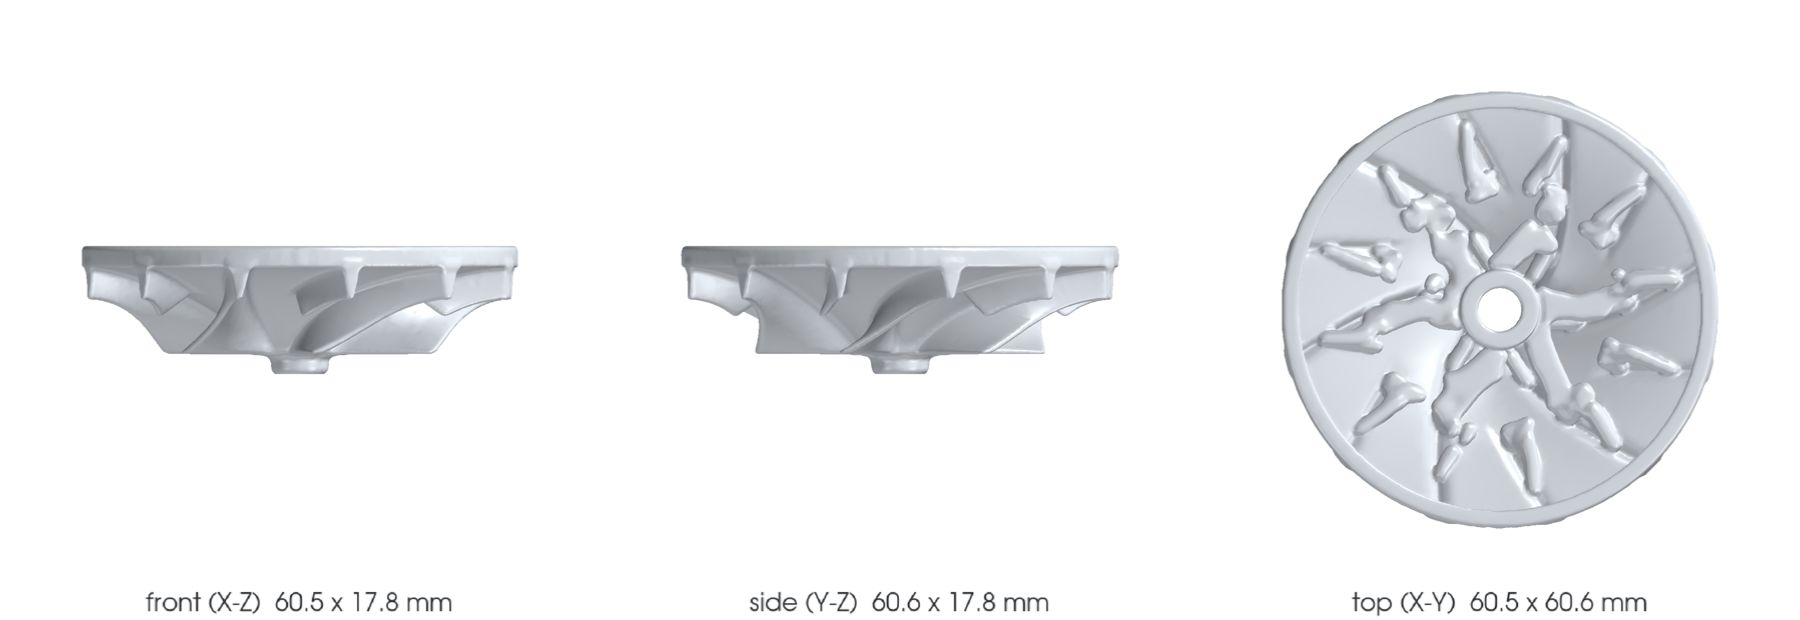
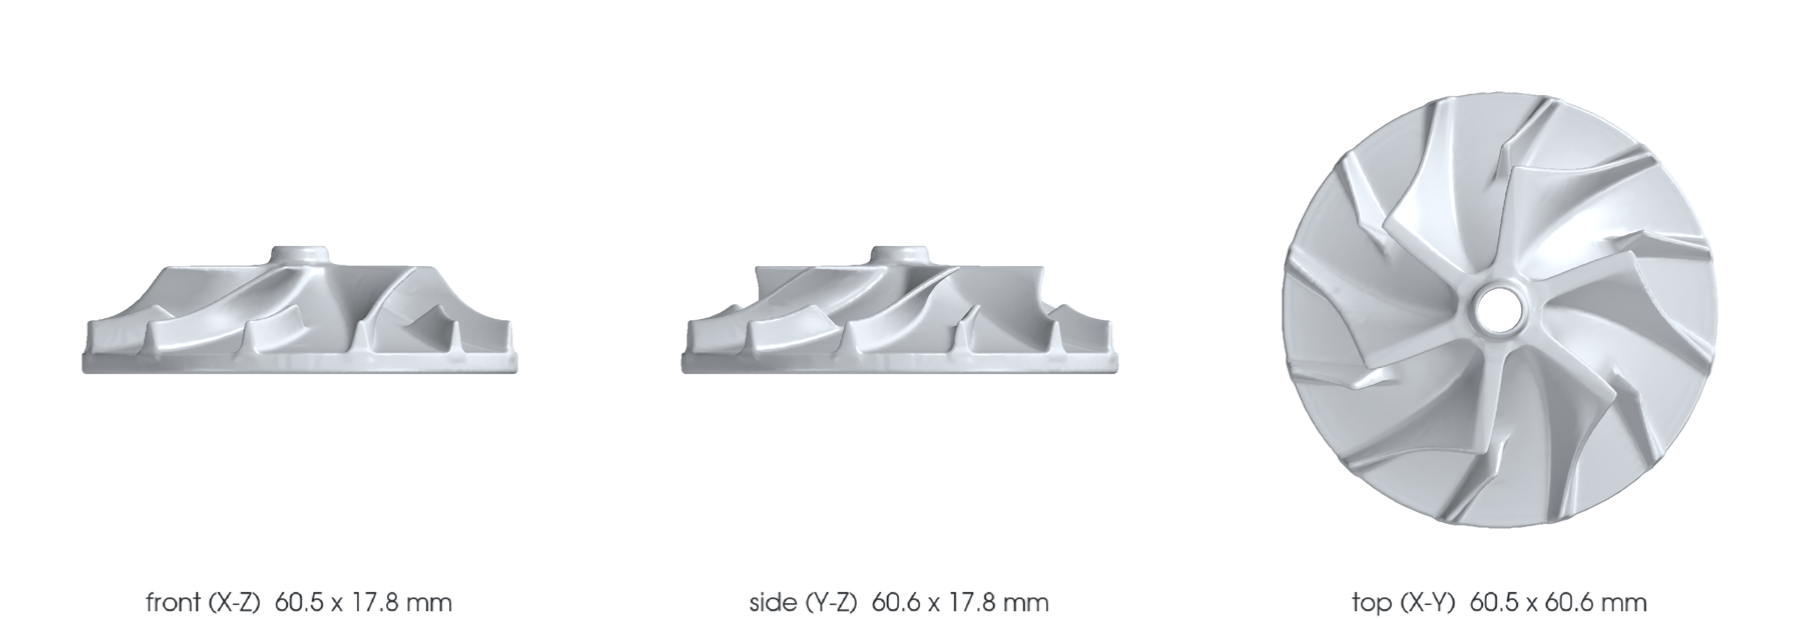
Show the blade face of back-face-up K16 compressor rotors

Changed region(s): [[0.7156, 0.1532, 0.9644, 0.8581], [0.0311, 0.3984, 0.3111, 0.6129], [0.3733, 0.3984, 0.6222, 0.6129]]

diff --git a/scripts/render_part_previews.py b/scripts/render_part_previews.py
@@ -174,6 +174,20 @@ def save_manifest(record: dict, info: dict) -> dict:
     return info
 
 
+def display_rotation_x_deg(part_id: str, files: list[Path]) -> int:
+    """Show the blade face of the two rotors archived back-face-up.
+
+    Their documented bionic frame is a 180-degree X rotation, not a mirror.
+    The source meshes and blade handedness are preserved.
+    """
+    back_face_up = {
+        "993-ENG-K16-COMPRESSOR-WHEEL-ALSI10MG-F0-0001",
+        "993-ENG-K16-COMPRESSOR-WHEEL-AL2139-F1-0001",
+    }
+    return 180 if (part_id in back_face_up and files
+                   and all(f.name.endswith("-picogk.stl") for f in files)) else 0
+
+
 def render(record: dict) -> dict:
     part_id = record["part_id"]
     files = sources(part_id)
@@ -181,7 +195,10 @@ def render(record: dict) -> dict:
         return status_card(record, files)
     import pyvista as pv
     pv.OFF_SCREEN = True
+    rotation_x_deg = display_rotation_x_deg(part_id, files)
     meshes = [mesh_of(f) for f in files]
+    if rotation_x_deg:
+        meshes = [m.rotate_x(rotation_x_deg, inplace=False) for m in meshes]
     smooth = (record.get("geometry", {}).get("master_format") == "PicoGK"
               or all(f.name.endswith("-picogk.stl") for f in files))
     tint = color(record)
@@ -238,9 +255,13 @@ def render(record: dict) -> dict:
     info = {
         "part_id": part_id,
         "kind": "geometry_render",
-        "note": ("Geometry views of the part's PicoGK concept model (parts/picogk-catalog/). "
+        "note": ("Blade-side views of the existing K16 compressor concept. "
+                 "Blade surfaces, hub and shaft interfaces remain unmeasured design hypotheses. "
+                 if rotation_x_deg else
+                 "Geometry views of the part's PicoGK concept model (parts/picogk-catalog/). "
                  if smooth else "Geometry views of the concept CAD. ")
                 + "Not a photograph, not a render of a manufactured part, not evidence of fit or function.",
+        "display_rotation_x_deg": rotation_x_deg,
         "sources": [{"path": f.relative_to(ROOT).as_posix(), "sha256": sha256(f)} for f in files],
         "bounding_box_mm": dims,
         "images": ["preview.png", "views.png"],
@@ -266,6 +287,8 @@ def check() -> int:
                 raise ValueError("incorrect image kind")
             if info.get("part_id") != part_id or info.get("sources") != expected:
                 raise ValueError("preview does not match its CAD")
+            if info.get("display_rotation_x_deg", 0) != display_rotation_x_deg(part_id, files):
+                raise ValueError("preview does not show the expected model face")
             if info.get("record_sha256") != sha256(RECORDS / (part_id.lower() + ".json")):
                 raise ValueError("preview does not match its catalogue record")
             if info.get("images") != names or not info.get("note") or not info.get("license"):

diff --git a/tests/test_render_part_previews.py b/tests/test_render_part_previews.py
@@ -110,6 +110,29 @@ class PublicPreviewTests(unittest.TestCase):
         with self.assertRaises(ValueError):
             previews.sources(self.record["part_id"])
 
+    def test_back_face_up_rotor_rejects_generic_camera_manifest(self):
+        part_id = "993-ENG-K16-COMPRESSOR-WHEEL-ALSI10MG-F0-0001"
+        record_path = self.records / (part_id.lower() + ".json")
+        self.record_path.rename(record_path)
+        self.record_path = record_path
+        self.record["part_id"] = part_id
+        self.write_record()
+        folder = self.parts / part_id.lower()
+        self.media.parent.rename(folder)
+        self.media = folder / "media"
+        derived = folder / "derived"
+        derived.mkdir()
+        cad = derived / "compressor_wheel_alsi10mg_f0-picogk.stl"
+        cad.write_bytes(b"back-face-up CAD fixture")
+        self.publish([cad])
+        # Valid image/CAD hashes alone do not catch a view of the wrong face.
+        self.assertEqual(self.check(), 1)
+        manifest = self.media / "preview.json"
+        info = json.loads(manifest.read_text())
+        info["display_rotation_x_deg"] = 180
+        manifest.write_text(json.dumps(info))
+        self.assertEqual(self.check(), 0)
+
 
 if __name__ == "__main__":
     unittest.main()
